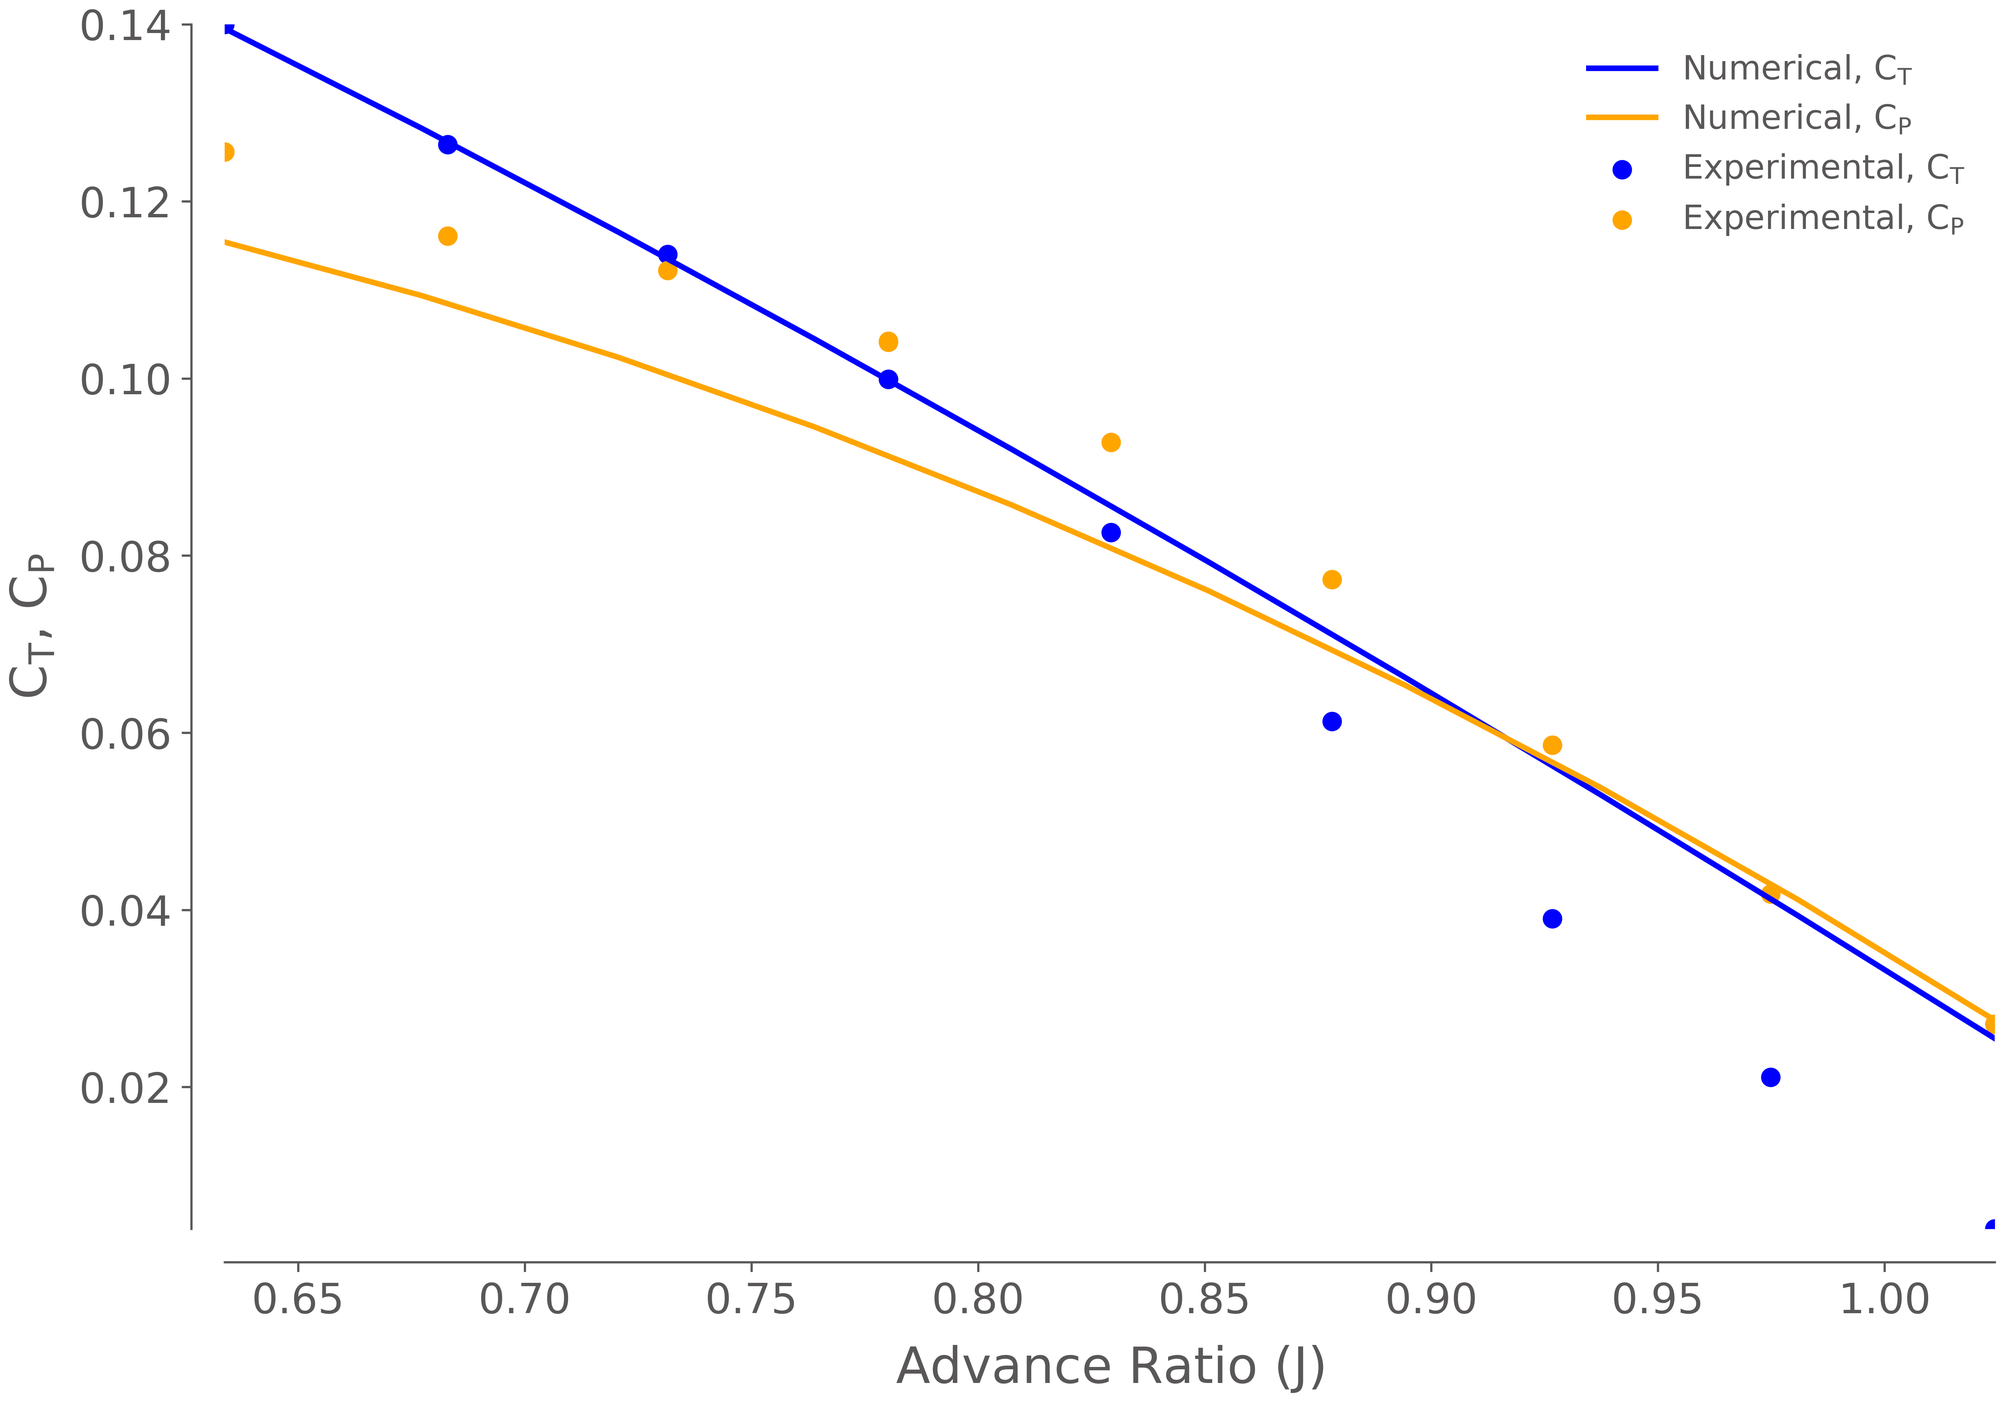
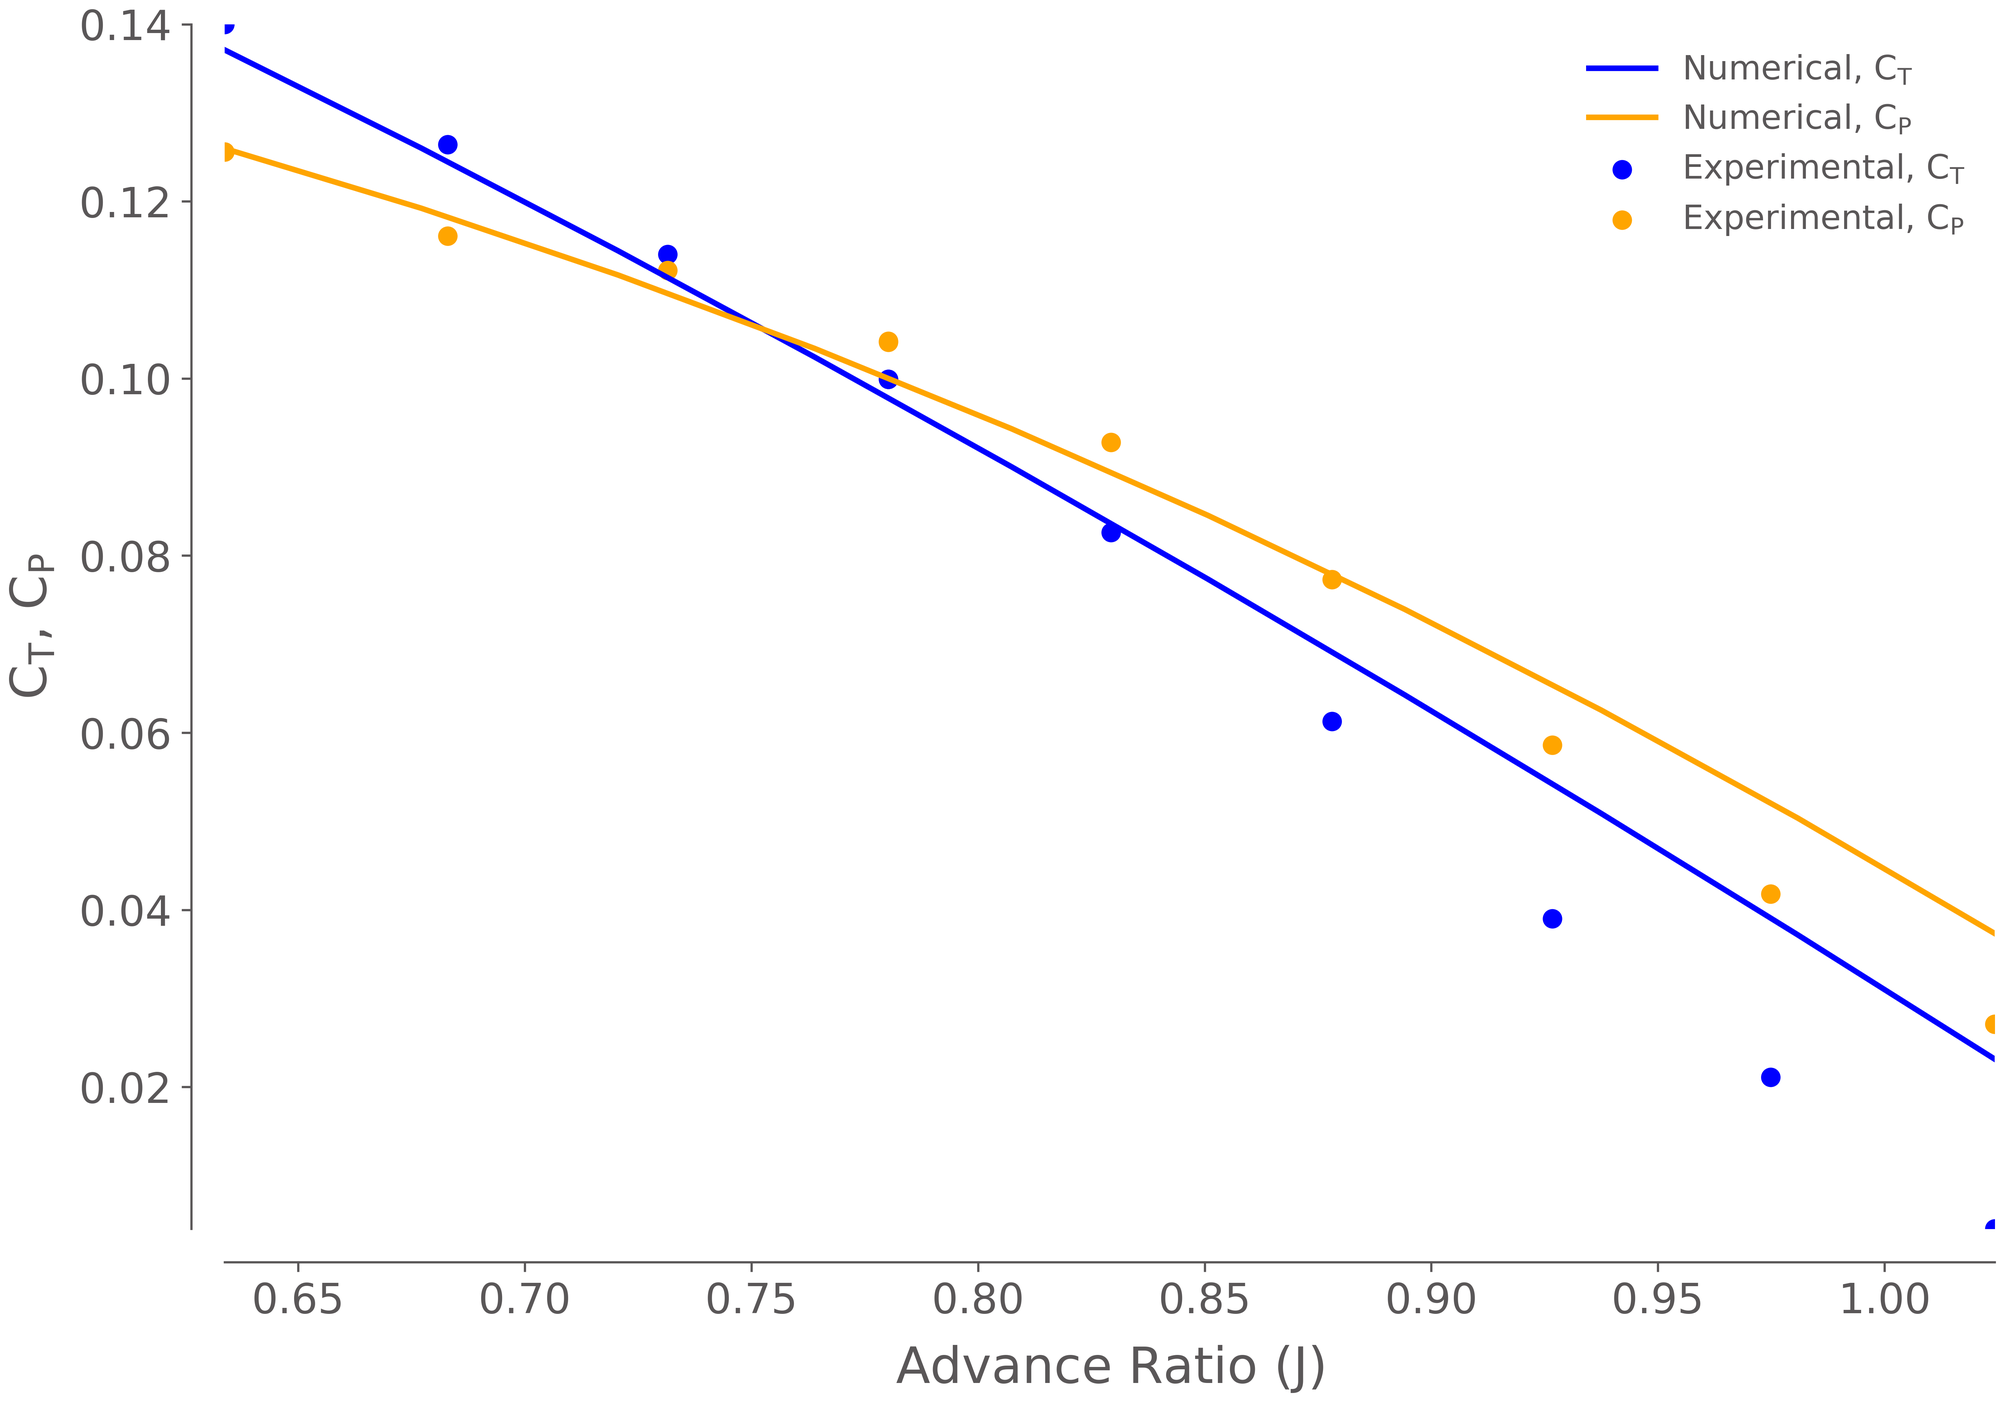
updated for new helix

diff --git a/examples/example_classes/PROWIM_classes.py b/examples/example_classes/PROWIM_classes.py
@@ -25,83 +25,83 @@ chord = data['chord']
 alpha_0 = data['alpha_0']
 alpha_L0 = data['alpha_L0']
 Cl_alpha = data['Cl_alpha']
+CD0 = np.array(data['cd0'])
 M = data['M']
 
-J = 1.0 # advance ratio
+J = 1.0  # advance ratio
 
-wing_twist = 0.
-wing_chord = 0.24*2
-wingspan = 0.73*2.*0.952
+wing_twist = .0
+wing_chord = 0.24
+wingspan = 0.748*2  # 0.73*2.*0.952
 
 prop_refinement = 4
-num_cp = 10 # wing
 
 spanwise_discretisation_propeller_BEM = len(span)
 
 
-PROWIM_parameters = ParamInfo(  vinf=40.,
-                                wing_aoa=2., # TODO: this is a wing property
-                                mach_number=0.2,
-                                reynolds_number=3_500_000,
-                                speed_of_sound=333.4,
-                                air_density=1.2087)
+PROWIM_parameters = ParamInfo(vinf=40.,
+                              wing_aoa=2.,  # TODO: this is a wing property
+                              mach_number=0.2,
+                              reynolds_number=3_500_000,
+                              speed_of_sound=333.4,
+                              air_density=1.2087)
 
-PROWIM_prop_1 = PropInfo(   label='Prop1',
-                            prop_location=-0.332,
-                            nr_blades=4,
-                            rot_rate=(PROWIM_parameters.vinf/(J*2.*prop_radius)) * 2.*np.pi, # in rad/s,
-                            chord=np.array(chord, order='F')*prop_radius,
-                            twist=np.array(twist, order='F'),
-                            span=np.array(span, order='F'),
-                            airfoils=[AirfoilInfo(label=f'Foil_{index}',
-                                                Cl_alpha=Cl_alpha[index],
-                                                alpha_L0=alpha_L0[index],
-                                                alpha_0=alpha_0[index],
-                                                    M=M[index])
-                                    for index in range(spanwise_discretisation_propeller_BEM+1)],
-                            ref_point=ref_point,
-                            local_refinement=prop_refinement,
-                            rotation_direction=-1,
-                            )
+PROWIM_prop_1 = PropInfo(label='Prop1',
+                         prop_location=-0.332,
+                         nr_blades=4,
+                         rot_rate=(PROWIM_parameters.vinf /
+                                   (J*2.*prop_radius)) * 2.*np.pi,  # in rad/s,
+                         chord=np.array(chord, order='F')*prop_radius,
+                         twist=np.array(twist, order='F'),
+                         span=np.array(span, order='F'),
+                         airfoils=[AirfoilInfo(label=f'Foil_{index}',
+                                               Cl_alpha=Cl_alpha[index],
+                                               alpha_L0=alpha_L0[index],
+                                               alpha_0=alpha_0[index],
+                                               CD0=np.array([CD0[0, index], CD0[1, index], CD0[2, index]]),
+                                               M=M[index])
+                                   for index in range(spanwise_discretisation_propeller_BEM+1)],
+                         ref_point=ref_point,
+                         local_refinement=prop_refinement
+                         )
 
-PROWIM_prop_2 = PropInfo(   label='Prop1',
-                            prop_location=0.332,
-                            nr_blades=4,
-                            rot_rate=(PROWIM_parameters.vinf/(J*2.*prop_radius)) * 2.*np.pi, # in rad/s,
-                            chord=np.array(chord, order='F')*prop_radius,
-                            twist=np.array(twist, order='F'),
-                            span=np.array(span, order='F'),
-                            airfoils=[AirfoilInfo(label=f'Foil_{index}',
-                                                Cl_alpha=Cl_alpha[index],
-                                                alpha_L0=alpha_L0[index],
-                                                alpha_0=alpha_0[index],
-                                                    M=M[index])
-                                    for index in range(spanwise_discretisation_propeller_BEM+1)],
-                            ref_point=ref_point,
-                            local_refinement=prop_refinement,
-                            rotation_direction=1,
-                            )
+PROWIM_prop_2 = PropInfo(label='Prop1',
+                         prop_location=0.332,
+                         nr_blades=4,
+                         rot_rate=(PROWIM_parameters.vinf /
+                                   (J*2.*prop_radius)) * 2.*np.pi,  # in rad/s,
+                         chord=np.array(chord, order='F')*prop_radius,
+                         twist=np.array(twist, order='F'),
+                         span=np.array(span, order='F'),
+                         airfoils=[AirfoilInfo(label=f'Foil_{index}',
+                                               Cl_alpha=Cl_alpha[index],
+                                               alpha_L0=alpha_L0[index],
+                                               alpha_0=alpha_0[index],
+                                               CD0=np.array([CD0[0], CD0[1], CD0[2]]),
+                                               M=M[index])
+                                   for index in range(spanwise_discretisation_propeller_BEM+1)],
+                         ref_point=ref_point,
+                         local_refinement=prop_refinement
+                         )
 
 
-PROWIM_wing = WingInfo( label='PROWIM_wing',
-                        span=wingspan,
-                        thickness = np.ones(num_cp)*0.003,
-                        chord=np.ones(num_cp,
-                                    order='F')*wing_chord,
-                        twist=np.ones(num_cp,
-                                    order='F')*wing_twist,
-                        empty_weight=10.,
-                        CL0 = 0.283, # if you want to do optimization set this to zero bcs otherwise OAS will return erroneous results
-                        CD0=0.025,
-                        fuel_mass=0,
-                        )
+PROWIM_wing = WingInfo(label='PROWIM_wing',
+                       span=wingspan,
+                       thickness=np.ones(10)*0.01,
+                       chord=np.ones(10,
+                                     order='F')*wing_chord,
+                       twist=np.ones(10,
+                                     order='F')*wing_twist,
+                       empty_weight=10.,
+                       CL0=0.283,  # if you want to do optimization set this to zero bcs otherwise OAS will return erroneous results
+                       fuel_mass=0
+                       )
 
 
 PROWIM_wingpropinfo = WingPropInfo(
-                                    spanwise_discretisation_propeller=19,
-                                    gamma_dphi=15,
-                                    spanwise_discretisation_propeller_BEM=spanwise_discretisation_propeller_BEM,
-                                    propeller=[PROWIM_prop_1, PROWIM_prop_2],
-                                    wing=PROWIM_wing,
-                                    parameters=PROWIM_parameters
-                            )
+                                   spanwise_discretisation_propeller=15,
+                                   spanwise_discretisation_propeller_BEM=spanwise_discretisation_propeller_BEM,
+                                   propeller=[PROWIM_prop_1, PROWIM_prop_2],
+                                   wing=PROWIM_wing,
+                                   parameters=PROWIM_parameters
+                                   )

diff --git a/src/models/propeller_model.py b/src/models/propeller_model.py
@@ -21,8 +21,6 @@ class PropellerCoupled(om.ExplicitComponent):
     def setup(self):
         # === Options ===
         self.wingpropinfo = self.options["WingPropInfo"]
-        self.Pisolated = 56.57407795*2
-        self.mbat_iso = 4
         
         # === Inputs ===
         for propeller_nr in range(self.wingpropinfo.nr_props):
@@ -33,7 +31,6 @@ class PropellerCoupled(om.ExplicitComponent):
         # === Outputs ===
         self.add_output('thrust_total', shape=1)
         self.add_output('power_total', shape=1)
-        self.add_output('weight_total', shape=1)
         
         # === Partials ===
         for propeller_nr in range(self.wingpropinfo.nr_props):
@@ -41,12 +38,9 @@ class PropellerCoupled(om.ExplicitComponent):
                                     rows=[0], cols=[3*TIME_STEPS_HELIX-1], val=1)
             self.declare_partials('power_total', f'power_prop_{propeller_nr}', 
                                     rows=[0], cols=[0], val=1)
-            self.declare_partials('weight_total', f'power_prop_{propeller_nr}', 
-                                    rows=[0], cols=[0], val=0)#1/self.wingpropinfo.propeller[0].esp + self.mbat_iso/self.Pisolated)
         
     def compute(self, inputs, outputs):
         thrust, power = [], []
-        ESP = self.wingpropinfo.propeller[0].esp
         
         for propeller_nr in range(self.wingpropinfo.nr_props):
             thrust.append(inputs[f'thrust_prop_{propeller_nr}'][2, TIME_STEPS_HELIX-1]) # only last entries contain the value
@@ -54,38 +48,7 @@ class PropellerCoupled(om.ExplicitComponent):
             
         outputs['thrust_total'] = np.sum(thrust)
         outputs['power_total'] = np.sum(power)
-        battery_weight = outputs['power_total']/self.Pisolated * self.mbat_iso
-        outputs['weight_total'] = self.wingpropinfo.wing.empty_weight #+ outputs['power_total']/ESP + battery_weight
 
-class PropellerPitch(om.ExplicitComponent):
-    def initialize(self):
-        self.options.declare('WingPropInfo', default=WingPropInfo)
-        
-    def setup(self):
-        # === Options ===
-        self.wingpropinfo = self.options["WingPropInfo"]
-        nr_twist_dvs = len(self.wingpropinfo.propeller[0].twist)
-        
-        for propeller_nr in range(self.wingpropinfo.nr_props):
-            # === Inputs ===
-            self.add_input(f'rotor_{propeller_nr}_twist', shape=nr_twist_dvs)
-            self.add_input(f'rotor_{propeller_nr}_pitch', shape=1)
-            
-            # === Outputs ===
-            self.add_output(f'rotor_{propeller_nr}_twist_adjusted', shape=nr_twist_dvs)
-            
-            # === Partials ===
-            self.declare_partials(f'rotor_{propeller_nr}_twist_adjusted',
-                                f'rotor_{propeller_nr}_twist',
-                                val=1)
-            self.declare_partials(f'rotor_{propeller_nr}_twist_adjusted',
-                                f'rotor_{propeller_nr}_pitch',
-                                rows=np.arange(0,nr_twist_dvs),
-                                cols=np.arange(0,nr_twist_dvs))
-        
-    def compute(self, inputs, outputs):
-        for propeller_nr in range(self.wingpropinfo.nr_props):
-            outputs[f'rotor_{propeller_nr}_twist_adjusted'] = inputs[f'rotor_{propeller_nr}_twist']+inputs[f'rotor_{propeller_nr}_pitch']
 
 class PropellerModel(om.Group):
     def initialize(self):
@@ -113,8 +76,8 @@ class PropellerModel(om.Group):
                 moment_calc=True,
                 power_calc=True,
                 loads_calc=True,
-                velocity_distribution_calc=True, # True
-                force_distribution_calc=True, # True
+                velocity_distribution_calc=True,
+                force_distribution_calc=True,
             ),
         )
     
@@ -208,8 +171,8 @@ class PropellerModel(om.Group):
             rotor.sec[iSection].alpha_0 = self.propellerinfo.airfoils[iSection].alpha_0
             rotor.sec[iSection].alpha_L0 = self.propellerinfo.airfoils[iSection].alpha_L0
             rotor.sec[iSection].Cl_alpha = self.propellerinfo.airfoils[iSection].Cl_alpha
-            rotor.sec[iSection].cd0 = 0.
             rotor.sec[iSection].M = self.propellerinfo.airfoils[iSection].M # this determine how steep the stall curve is
+            rotor.sec[iSection].cd0 = self.propellerinfo.airfoils[iSection].CD0
 
         # Span Sections
         for iSpan in range(N_span):

diff --git a/examples/optimisation/proponly_optimisation.py b/examples/optimisation/proponly_optimisation.py
@@ -25,13 +25,6 @@ if __name__=='__main__':
     PROWIM_wingpropinfo.propeller[0].span *= 10
     PROWIM_wingpropinfo.parameters.vinf = 160
     PROWIM_wingpropinfo.parameters.air_density = 1.2087
-
-    # db_name = os.path.join(BASE_DIR, 'results', 'data_propeller.db')
-    # savepath = os.path.join(BASE_DIR, 'results', 'prop_results')
-    # stackedplots_prop(db_name=db_name,
-    #                     wingpropinfo=PROWIM_wingpropinfo,
-    #                     savedir=savepath)
-    # quit()
     
     objective = {
                 'HELIX_COUPLED.power_total':
@@ -47,10 +40,6 @@ if __name__=='__main__':
                         {'lb': 0,
                         'ub': 3000,
                         'scaler': 1./1060},
-                    # 'DESIGNVARIABLES.rotor_0_chord':
-                    #     {'lb': -np.inf,
-                    #     'ub': np.inf,
-                    #     'scaler': 1./0.012032137566147693}
                     }
 
     constraints = {
@@ -67,7 +56,7 @@ if __name__=='__main__':
     prob.setup()
     prob.run_model()
     
-    if True:
+    if False:
         # prob.check_totals(compact_print=True, show_only_incorrect=True)
         partials = prob.check_partials(compact_print=True, show_only_incorrect=True,
                includes=['*HELIX_0*'],

diff --git a/examples/analysis/PROWIM_prop_validation.py b/examples/analysis/PROWIM_prop_validation.py
@@ -33,6 +33,7 @@ chord = data['chord']
 alpha_0 = data['alpha_0']
 alpha_L0 = data['alpha_L0']
 Cl_alpha = data['Cl_alpha']
+CD0 = np.array(data['cd0'])
 M = data['M']
 
 # === Set wing parameters ===
@@ -56,6 +57,7 @@ prop1 = PropInfo(label='Prop1',
                                        Cl_alpha=Cl_alpha[index],
                                        alpha_L0=alpha_L0[index],
                                        alpha_0=alpha_0[index],
+                                       CD0 = np.array([CD0[0, index], CD0[1, index], CD0[2, index]]),
                                        M=M[index])
                            for index in range(spanwise_discretisation_propeller_BEM+1)],
                  ref_point=np.array(ref_point),
@@ -76,6 +78,7 @@ prop2 = PropInfo(label='Prop1',
                                        Cl_alpha=Cl_alpha[index],
                                        alpha_L0=alpha_L0[index],
                                        alpha_0=alpha_0[index],
+                                       CD0 = np.array([CD0[0, index], CD0[1, index], CD0[2, index]]),
                                        M=M[index])
                            for index in range(spanwise_discretisation_propeller_BEM+1)],
                  ref_point=np.array(ref_point),

diff --git a/src/integration/coupled_groups_optimisation.py b/src/integration/coupled_groups_optimisation.py
@@ -2,7 +2,7 @@
 
 # --- Internal ---
 from src.base import WingPropInfo, PropInfo, ParamInfo
-from src.models.propeller_model import PropellerModel, PropellerCoupled, PropellerPitch
+from src.models.propeller_model import PropellerModel, PropellerCoupled
 from src.models.wing_model import WingModelTube, WingModelWingBox
 from src.models.slipstream_model import SlipStreamModel
 from src.models.parameters import Parameters
@@ -674,8 +674,8 @@ class PropOptimisationPitch(om.Group):
             self.connect(f"blade_chord_spline_{propeller_nr}.y",
                          f"HELIX_{propeller_nr}.om_helix.geodef_parametric_0_chord")
             
-        self.add_subsystem('HELIX_PITCH',
-                           subsys=PropellerPitch(WingPropInfo=wingpropinfo))
+        # self.add_subsystem('HELIX_PITCH',
+        #                    subsys=PropellerPitch(WingPropInfo=wingpropinfo))
 
         self.add_subsystem('HELIX_COUPLED',
                            subsys=PropellerCoupled(WingPropInfo=wingpropinfo))

diff --git a/examples/example_classes/optimisation_classes.py b/examples/example_classes/optimisation_classes.py
@@ -59,8 +59,7 @@ PROWIM_prop_1 = PropInfo(label='Prop1',
                                         M=M[index])
                            for index in range(spanwise_discretisation_propeller_BEM+1)],
                  ref_point=ref_point,
-                 local_refinement=prop_refinement,
-                 rotation_direction=1
+                 local_refinement=prop_refinement
                  )
 
 PROWIM_prop_2 = PropInfo(label='Prop1',
@@ -77,8 +76,7 @@ PROWIM_prop_2 = PropInfo(label='Prop1',
                                         M=M[index])
                            for index in range(spanwise_discretisation_propeller_BEM+1)],
                  ref_point=ref_point,
-                 local_refinement=prop_refinement,
-                 rotation_direction=-1
+                 local_refinement=prop_refinement
                  )
 
 

diff --git a/src/base.py b/src/base.py
@@ -28,6 +28,7 @@ class AirfoilInfo:
     Cl_alpha: float     # Cl alpha lift slope
     alpha_L0: float     # zero lift angle
     alpha_0: float      # stall angle
+    CD0: np.array
     M: float = 50.
 
 
